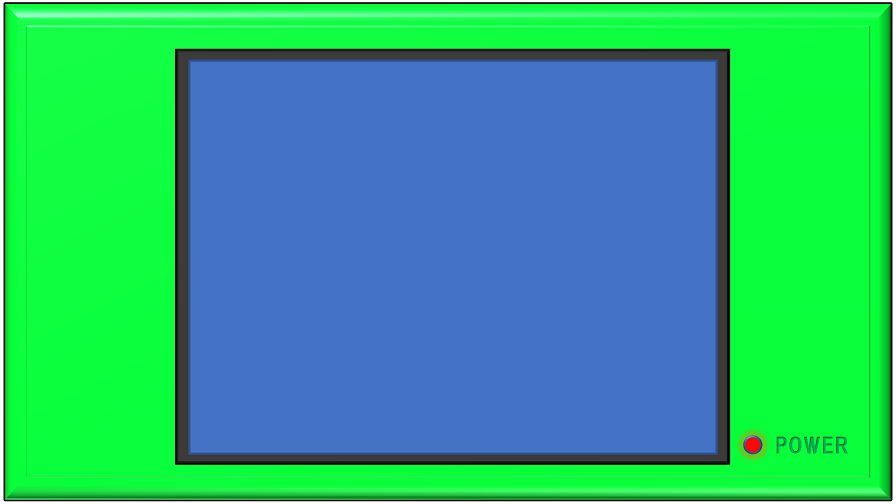
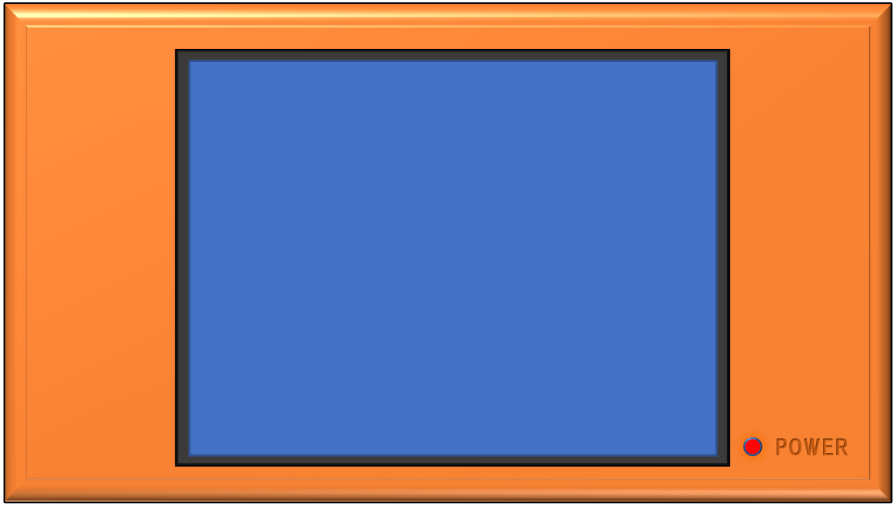
20220405

diff --git a/itlgame/index.html b/itlgame/index.html
@@ -1,76 +1,76 @@
 <!DOCTYPE html>
 <html>
 <head>
-  <meta charset="utf-8">
-  <meta name="viewport" content="width=device-width, initial-scale=1">
-  <title>top - iTLゲームサークルのWebサイト</title>
-  <link rel="stylesheet" href="css/style.css">
+	<meta charset="utf-8">
+	<meta name="viewport" content="width=device-width, initial-scale=1">
+	<title>top - iTLゲームサークルのWebサイト</title>
+	<link rel="stylesheet" href="css/style.css">
 
-  <body>
-    <div class="whole">
-      <header class="header">
-        <div class="hello">
-          <a href="index.html"><img src="images/title.png" alt="iTLゲームサークル" width="300px" height="60px"></a>
-        </div>
-        <nav class="list">
-          <ul>
-            <li><a href="infomations.html">infomations</a></li>
-            <li><a href="contents.html">contents</a></li>
-            <li><a href="contact.html">contact us</a></li>
-          </ul>
-        </nav>
-      </header>
+	<body>
+		<div class="whole">
+			<header class="header">
+				<div class="hello">
+					<a href="index.html"><img src="images/title.png" alt="iTLゲームサークル" width="300px" height="60px"></a>
+				</div>
+				<nav class="list">
+					<ul>
+						<li><a href="infomations.html">infomations</a></li>
+						<li><a href="contents.html">contents</a></li>
+						<li><a href="contact.html">contact us</a></li>
+					</ul>
+				</nav>
+			</header>
 
-      <main>
-        <div class="geemuki">
-          <img src="images/geemuki.png" class="ge" onselectstart="return false;" onmousedown="return false;">
-          <div class="slideimage"><a href="infomations.html" id="slidelink"><img src="images/slide1.png" alt="" class="slides" id="slideshow" onselectstart="return false;" onmousedown="return false;"></a></div>
-          <div class="Lbuttons1"><img src="images/gemukiB1.png" onclick="ringA()" onselectstart="return false;" onmousedown="return false;"></div>
-          <div class="Lbuttons2"><img src="images/gemukiB1.png" onclick="ringA()" onselectstart="return false;" onmousedown="return false;"></div>
-          <div class="Lbuttons3"><img src="images/gemukiB2.png" onclick="ringA()" onselectstart="return false;" onmousedown="return false;"></div>
-          <div class="Lbuttons4"><img src="images/gemukiB2.png" onclick="ringA()" onselectstart="return false;" onmousedown="return false;"></div>
-          <div class="Rbuttons1"><img src="images/gemukiB3.png" onclick="ringB()" onselectstart="return false;" onmousedown="return false;"></div>
-          <div class="Rbuttons2"><img src="images/gemukiB3.png" onclick="ringC()" onselectstart="return false;" onmousedown="return false;"></div>
-          <div class="Rbuttons3"><img src="images/gemukiB4.png" onclick="ringD()" onselectstart="return false;" onmousedown="return false;"></div>
-          <div class="Rbuttons4"><img src="images/gemukiB4.png" onclick="ringD()" onselectstart="return false;" onmousedown="return false;"></div>
-        </div>
-        <audio id="bs1">
-          <source src="etc/button1.mp3" type="audio/mp3">
-          </audio>
-          <audio id="bs2">
-            <source src="etc/button2.mp3" type="audio/mp3">
-            </audio>
-            <audio id="bs3">
-              <source src="etc/button3.mp3" type="audio/mp3">
-              </audio>
-              <audio id="bs4">
-                <source src="etc/button4.mp3" type="audio/mp3">
-                </audio>
+			<main>
+				<div class="geemuki">
+					<img src="images/geemuki.png" class="ge" onselectstart="return false;" onmousedown="return false;">
+					<div class="slideimage"><a href="infomations.html" id="slidelink"><img src="images/slide1.png" alt="" class="slides" id="slideshow" onselectstart="return false;" onmousedown="return false;"></a></div>
+					<div class="Lbuttons1"><img src="images/gemukiB1.png" onclick="ringA()" onselectstart="return false;" onmousedown="return false;"></div>
+					<div class="Lbuttons2"><img src="images/gemukiB1.png" onclick="ringA()" onselectstart="return false;" onmousedown="return false;"></div>
+					<div class="Lbuttons3"><img src="images/gemukiB2.png" onclick="ringA()" onselectstart="return false;" onmousedown="return false;"></div>
+					<div class="Lbuttons4"><img src="images/gemukiB2.png" onclick="ringA()" onselectstart="return false;" onmousedown="return false;"></div>
+					<div class="Rbuttons1"><img src="images/gemukiB3.png" onclick="ringB()" onselectstart="return false;" onmousedown="return false;"></div>
+					<div class="Rbuttons2"><img src="images/gemukiB3.png" onclick="ringC()" onselectstart="return false;" onmousedown="return false;"></div>
+					<div class="Rbuttons3"><img src="images/gemukiB4.png" onclick="ringD()" onselectstart="return false;" onmousedown="return false;"></div>
+					<div class="Rbuttons4"><img src="images/gemukiB4.png" onclick="ringD()" onselectstart="return false;" onmousedown="return false;"></div>
+				</div>
+				<audio id="bs1">
+					<source src="etc/button1.mp3" type="audio/mp3">
+					</audio>
+					<audio id="bs2">
+						<source src="etc/button2.mp3" type="audio/mp3">
+						</audio>
+						<audio id="bs3">
+							<source src="etc/button3.mp3" type="audio/mp3">
+							</audio>
+							<audio id="bs4">
+								<source src="etc/button4.mp3" type="audio/mp3">
+								</audio>
 
-                <div class="index_oshirase">
+								<div class="index_oshirase">
 
-                  <h2 class="news">お知らせ</h2>
+									<h2 class="news">お知らせ</h2>
 									<hr>
 									<p class="news-items"><h5>2022年3月4日</h5>サークルの名称が変わりました。</p>
 									<hr>
 									<p class="news-items"><h5>2021年12月14日</h5>ウェブサイトの場所が変わりました。</p>
-                  <hr>
-                  <p class="news-items"><h5>2021年8月3日</h5>ゲームのファイルをGitHub で共同編集できるようにするための手順</a>をまとめました。</p>
-                  <hr>
-                  <p class="news-items"><h5>2021年7月7日</h5>期末課題に集中するため、夏休みが始まるまでiTLゲーム制作サークルの活動を休止します。</p>
-                  <hr>
-                  <p class="news-items"><h5>2021年6月11日</h5>iTLゲーム制作サークルの活動が始まりました！</p>
-                  <hr>
+									<hr>
+									<p class="news-items"><h5>2021年8月3日</h5>ゲームのファイルをGitHub で共同編集できるようにするための手順</a>をまとめました。</p>
+									<hr>
+									<p class="news-items"><h5>2021年7月7日</h5>期末課題に集中するため、夏休みが始まるまでiTLゲーム制作サークルの活動を休止します。</p>
+									<hr>
+									<p class="news-items"><h5>2021年6月11日</h5>iTLゲーム制作サークルの活動が始まりました！</p>
+									<hr>
 
-                </div>
-              </main>
-              <footer>
-                <p>&copy;Copyright iTLゲームサークル. All rights reserved.</p>
-              </footer>
-            </div>
-            <script src="js/swipers.js"></script>
-            <script src="js/sound.js"></script>
+								</div>
+							</main>
+							<footer>
+								<p>&copy;Copyright iTLゲームサークル. All rights reserved.</p>
+							</footer>
+						</div>
+						<script src="js/swipers.js"></script>
+						<script src="js/sound.js"></script>
 
-            </html>
+						</html>
 
-            <!--このWebサイトはiTLゲーム制作サークルのウェブサイトです。部長には一応許可をとってあります。 -->
+						<!--このWebサイトはiTLゲーム制作サークルのウェブサイトです。部長には一応許可をとってあります。 -->

diff --git a/itlgame/css/style.css b/itlgame/css/style.css
@@ -11,7 +11,7 @@ html * {
 }
 body{
   margin: 0 0 0 0;
-  background-color: #c6ffcd;;
+  background-color: #EED9C9;
 }
 
 p {
@@ -19,13 +19,13 @@ p {
   margin
 }
 a:link {
-  color: #39ff5f;
+  color: #ED6335;
 }
 a:visited {
-  color: #39ff5f;
+  color: #ED6335;
 }
 a:hover {
-  color: #34d7e7;
+  color: #33ede7;
 }
 a:active {
   color: #ececec;
@@ -52,7 +52,7 @@ header {
     padding-bottom: 10px;
     text-align:left;
   /*background-image: url(../images/bar2.png);*/
-    background-color: #57ffa6;
+    background-color: #ED6335;
 
 }
 .list ul{
@@ -68,7 +68,7 @@ header {
   font-size:20px;
   border-radius: 10px;
 
-  background-color: #9effcc;
+  background-color: #ECAE7E;
 }
 .list li:hover{
     background-color: #98e5fb;
@@ -88,7 +88,8 @@ header {
 /*main*/
 main{
     max-width: 1020px;
-    margin: 10px auto 0 auto;
+    margin: 0 auto 0 auto;
+		padding-top: 10px;
     background-color: #f6f6f6;
 }
 .geemuki{
@@ -300,7 +301,7 @@ padding: 15px 5% 15px 5%;
 /*footer*/
 footer{
   text-align: center;
-  background-color: #d5ffdd;
+  background-color: #E8E1D7;
   padding: 10px 10px 10px 10px;
 }
 
